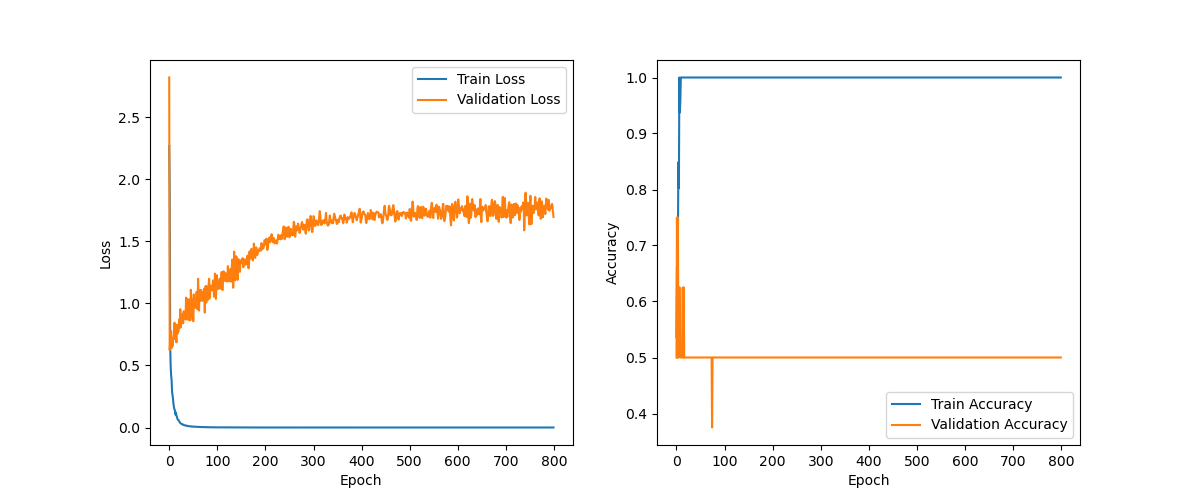
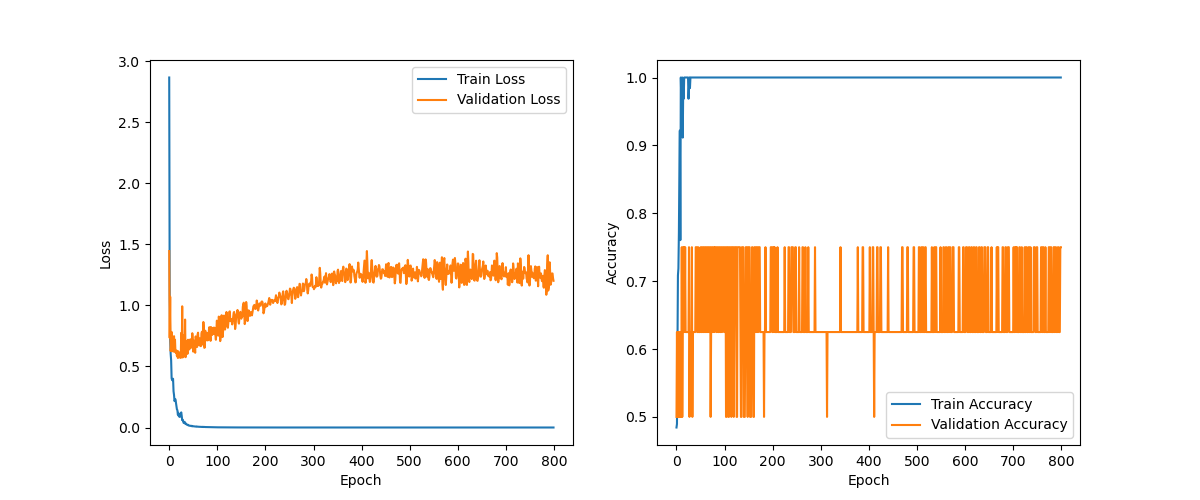
corrections

diff --git a/HGNN_Conv_MC.py b/HGNN_Conv_MC.py
@@ -61,7 +61,7 @@ class HGConv(torch.nn.Module):
 
 
 # Testing the class Raw_to_Hypergraph with one example and saving it
-threshold = 0.5
+threshold = 0.7
 age = False
 sex = False
 method = 'maximal_clique'
@@ -209,7 +209,7 @@ def train(model, optimizer, criterion, w_decay, threshold, method, train_loader,
 from sklearn.model_selection import ParameterGrid
 
 # Building the graphs
-threshold = 0.5
+threshold = 0.7
 age = False
 sex = False
 method = 'maximal_clique'
@@ -222,20 +222,20 @@ dataset = f.Raw_to_Hypergraph(root=root, hg_data_path=hg_data_path, method=metho
 # Creating the train, validation and test sets
 train_loader, valid_loader, test_loader, nbr_classes = f.create_train_test_valid(dataset)
 
-# param_grid = {
-#     'learning_rate': [0.001, 0.0001],
-#     'hidden_channels': [128, 64],
-#     'num_layers': [3, 2, 1],
-#     'dropout_rate': [0.2, 0.1, 0.0],
-#     'weight_decay': [0.001, 0.0001]
-# }
 param_grid = {
-    'learning_rate': [0.0001, 0.001],
-    'hidden_channels': [64, 128],
-    'num_layers': [1, 2, 3],
-    'dropout_rate': [0.0, 0.1, 0.2],
-    'weight_decay': [0.0001, 0.001]
+    'learning_rate': [0.001, 0.0001],
+    'hidden_channels': [128, 64],
+    'num_layers': [3, 2, 1],
+    'dropout_rate': [0.2, 0.1, 0.0],
+    'weight_decay': [0.001, 0.0001]
 }
+# param_grid = {
+#     'learning_rate': [0.0001, 0.001],
+#     'hidden_channels': [64, 128],
+#     'num_layers': [1, 2, 3],
+#     'dropout_rate': [0.0, 0.1, 0.2],
+#     'weight_decay': [0.0001, 0.001]
+# }
 
 # Create combinations of hyperparameters
 param_combinations = ParameterGrid(param_grid)

diff --git a/models.py b/models.py
@@ -485,9 +485,9 @@ def train_MPNN(model, optimizer, criterion, w_decay, threshold, train_loader, va
     num_layers = parameters[2]
     dropout = parameters[3]
     if matrixprofile:
-        filename = f'2Class_Models/MPNN_Models_MP/threshold_{threshold}/lr{lr}_hc{hidden_channels}_nl{num_layers}_d{dropout}_epochs{n_epochs}_w{weight}.png'
+        filename = f'2Class_Models/MPNN_Models_MP/threshold_{threshold}/lr{lr}_hc{hidden_channels}_nl{num_layers}_d{dropout}_epochs{n_epochs}_wdecay{w_decay}_w{weight}.png'
     else:
-        filename = f'2Class_Models/MPNN_Models/threshold_{threshold}/lr{lr}_hc{hidden_channels}_nl{num_layers}_d{dropout}_epochs{n_epochs}_w{weight}.png'
+        filename = f'2Class_Models/MPNN_Models/threshold_{threshold}/lr{lr}_hc{hidden_channels}_nl{num_layers}_d{dropout}_epochs{n_epochs}_wdecay{w_decay}_w{weight}.png'
     plt.savefig(filename)
     if testing:
         plt.title(f'Test Accuracy: {test_accuracy}')

diff --git a/MPNN.py b/MPNN.py
@@ -197,9 +197,9 @@ def train(model, optimizer, criterion, w_decay, threshold, train_loader, valid_l
     num_layers = parameters[2]
     dropout = parameters[3]
     if matrixprofile:
-        filename = f'MPNN_Models_MP/threshold_{threshold}/lr{lr}_hc{hidden_channels}_nl{num_layers}_d{dropout}_epochs{n_epochs}_w{weight}.png'
+        filename = f'MPNN_Models_MP/threshold_{threshold}/lr{lr}_hc{hidden_channels}_nl{num_layers}_d{dropout}_epochs{n_epochs}_wdecay{w_decay}_w{weight}.png'
     else:
-        filename = f'MPNN_Models/threshold_{threshold}/lr{lr}_hc{hidden_channels}_nl{num_layers}_d{dropout}_epochs{n_epochs}_w{weight}.png'
+        filename = f'MPNN_Models/threshold_{threshold}/lr{lr}_hc{hidden_channels}_nl{num_layers}_d{dropout}_epochs{n_epochs}_wdecay{w_decay}_w{weight}.png'
     plt.savefig(filename)
     if testing:
         plt.title(f'Test Accuracy: {test_accuracy}')
